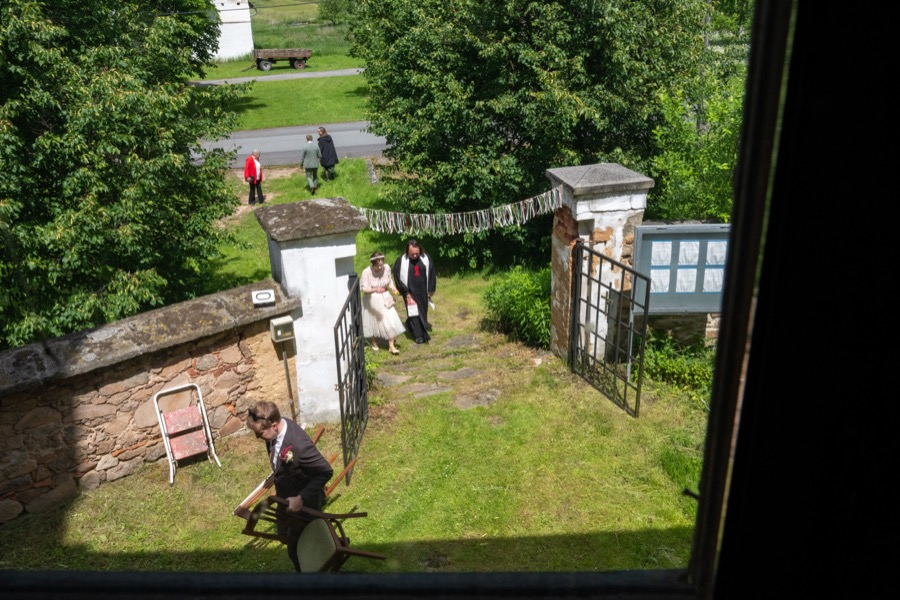
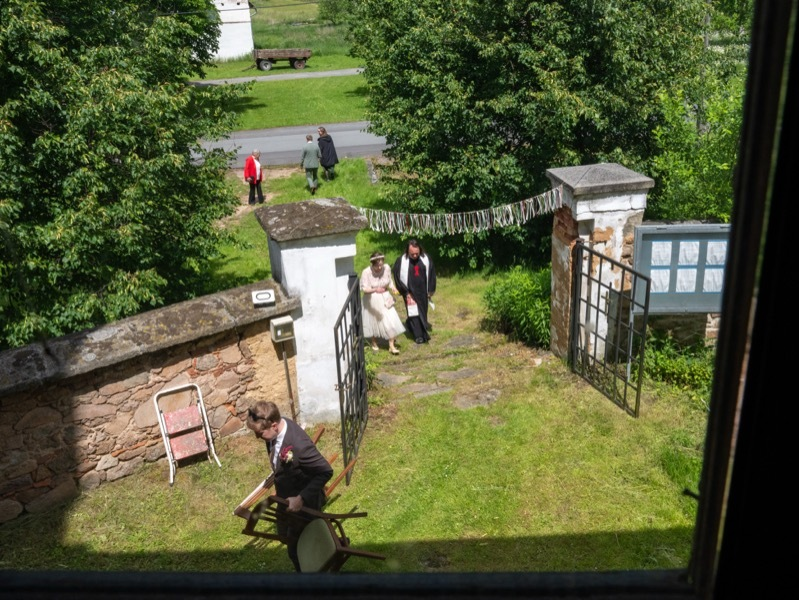
Match Dora gallery spacing to community layout and trim white borders.
Use the same column masonry as the guest gallery instead of flex rows that stretched tiles, and auto-trim near-white borders when building thumbnails.

diff --git a/index.html b/index.html
@@ -664,21 +664,6 @@
       column-gap: 0.75rem;
     }
 
-    /* Row-major flow so filename order reads left-to-right, top-to-bottom */
-    #dora-gallery {
-      display: flex;
-      flex-wrap: wrap;
-      gap: 0.75rem;
-      columns: auto;
-      column-gap: 0;
-    }
-
-    #dora-gallery .gallery-item {
-      flex: 1 1 220px;
-      max-width: calc((100% - 1.5rem) / 3);
-      margin-bottom: 0;
-    }
-
     .gallery-item {
       break-inside: avoid;
       margin-bottom: 0.75rem;
@@ -899,10 +884,6 @@
       .footer-moth { display: none; }
 
       .gallery { columns: 2 140px; }
-      #dora-gallery .gallery-item {
-        flex-basis: 140px;
-        max-width: calc((100% - 0.75rem) / 2);
-      }
       .lightbox-prev { left: 0; }
       .lightbox-next { right: 0; }
 

diff --git a/index-en.html b/index-en.html
@@ -696,20 +696,6 @@
       column-gap: 0.75rem;
     }
 
-    #dora-gallery {
-      display: flex;
-      flex-wrap: wrap;
-      gap: 0.75rem;
-      columns: auto;
-      column-gap: 0;
-    }
-
-    #dora-gallery .gallery-item {
-      flex: 1 1 220px;
-      max-width: calc((100% - 1.5rem) / 3);
-      margin-bottom: 0;
-    }
-
     .gallery-item {
       break-inside: avoid;
       margin-bottom: 0.75rem;
@@ -932,10 +918,6 @@
       .footer-moth { display: none; }
 
       .gallery { columns: 2 140px; }
-      #dora-gallery .gallery-item {
-        flex-basis: 140px;
-        max-width: calc((100% - 0.75rem) / 2);
-      }
       .lightbox-prev { left: 0; }
       .lightbox-next { right: 0; }
 